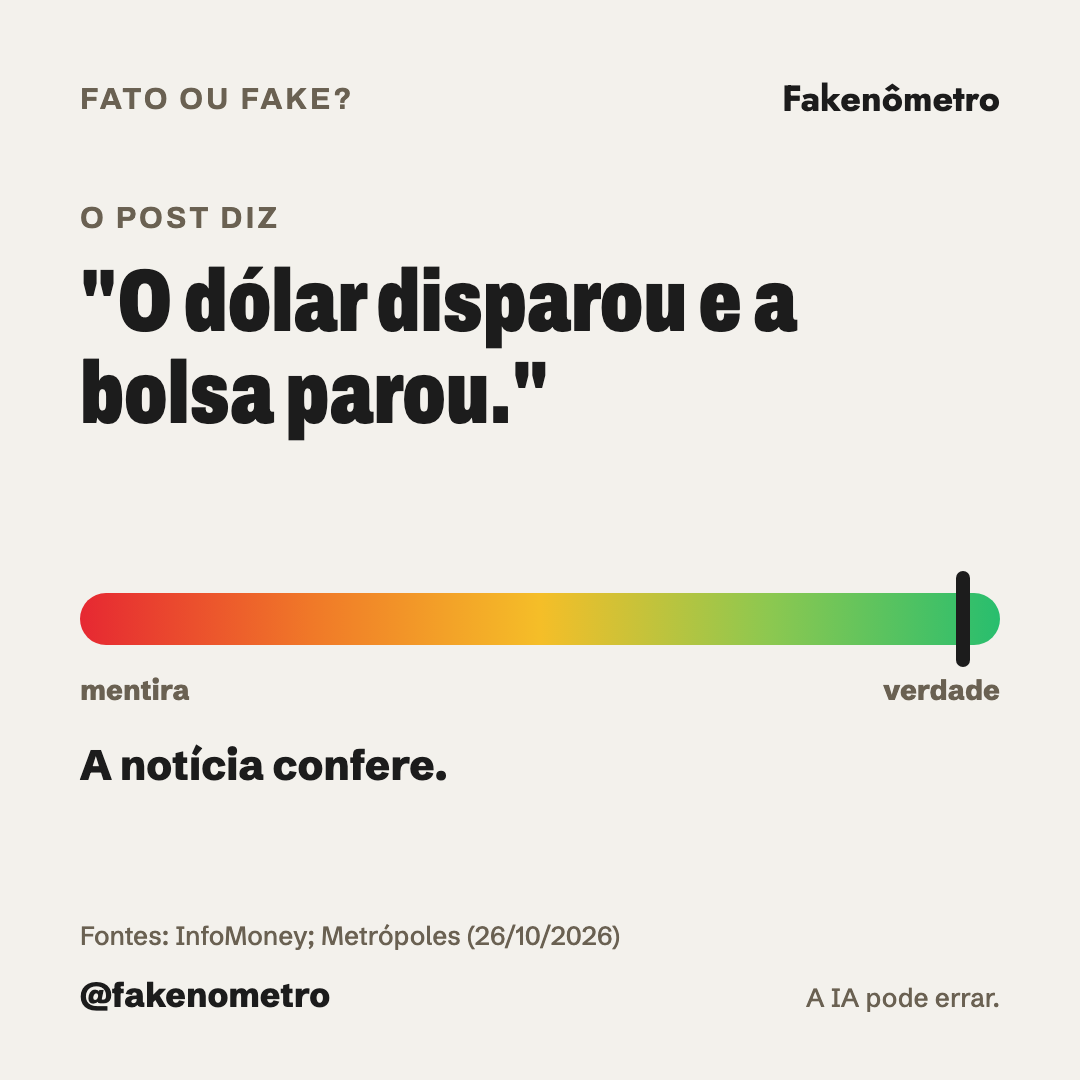
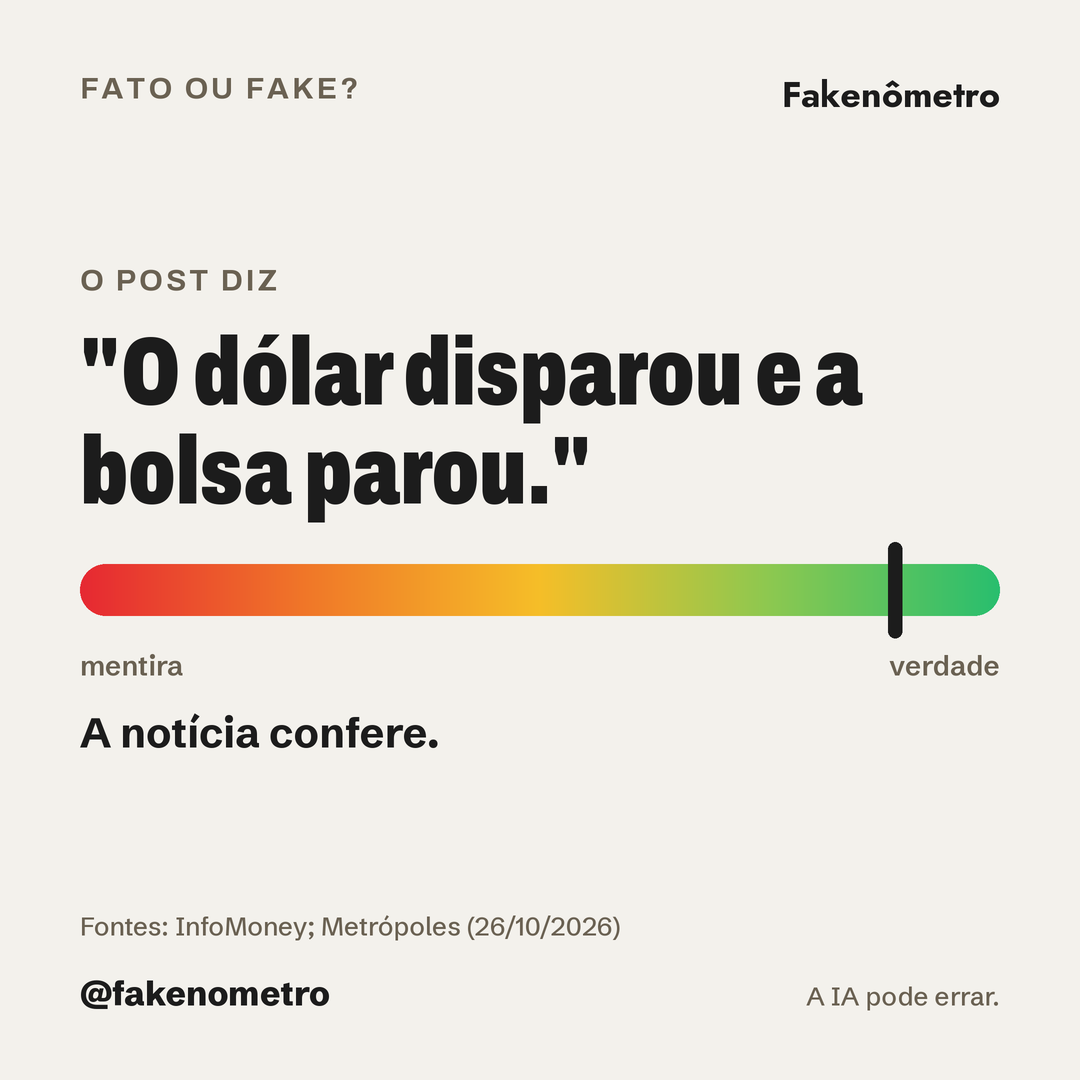
Termômetro: página e cards com a regra nova do ponteiro (Roberta, 15/11)

diff --git a/termometro/index.html b/termometro/index.html
@@ -17,28 +17,35 @@
 <a href="/">Início</a><a href="/manifesto">Manifesto</a><a href="/golpes/">Golpes</a><a href="/termometro/" class="ativo">Termômetro</a><a href="/numeros/">Números</a><a href="/contato/">Contato</a>
 </nav></div>
 <main>
+<style>.cx #pontos{grid-template-columns:repeat(4,minmax(0,1fr))}.cx #pontos .ponto{grid-column:auto}</style>
 <section class="capa"><div>
 <p class="etiqueta">O termômetro</p>
 <h1>Não é opinião. <span class="mt">É conta.</span></h1>
-<p class="sub">A gente separa o que o post afirma, ponto por ponto, e confere cada um. O ponteiro mostra quanto da história ficou de pé.</p>
+<p class="sub">A gente separa o que o post afirma e confere ponto por ponto. A frase do card diz o resultado. O tracinho mostra o quanto está provado.</p>
 <p class="mao">repetição não é prova</p>
 </div><div class="cx">
-<p class="etiqueta">Testa aí: toca nos pontos, o ponteiro mexe</p>
+<p class="etiqueta">Testa aí: escolhe e o tracinho mexe</p>
+<p class="mini"><b>O resultado</b></p>
+<div class="pontos" id="selo"></div>
+<p class="mini" id="rotulo-prova"><b>A prova do ponto principal</b></p>
+<div class="pontos" id="prova"></div>
+<p class="mini"><b>Os outros pontos</b> (toca para mudar)</p>
 <div class="pontos" id="pontos"></div>
-<div class="termo"><i id="ponteiro" style="left:80%"></i></div>
+<div class="termo"><b id="faixa" style="position:absolute;top:-4px;bottom:-4px;border:3px solid var(--texto);border-radius:6px;transition:all .45s"></b><i id="ponteiro" style="left:90%"></i></div>
 <div class="termo-pontas"><span>mentira</span><span>verdade</span></div>
 <p class="mini" id="leitura"></p>
-<p class="mao">sem prova também pesa: não é ponto a favor</p>
+<p class="mao">falta de prova não puxa para nenhum lado</p>
 </div></section>
 
 <section data-aba="Os cards">
-<p class="sub">Quatro casos e um card para repassar. É ele que chega no direct e no WhatsApp, pronto para mandar no grupo.</p>
+<p class="sub">O card é o que chega no direct e no WhatsApp, pronto para mandar no grupo. Cada resultado tem o seu lugar na barra.</p>
 <div class="quatro cards">
-<figure class="sobe" style="margin:0"><img src="/marca/cards/card_fake.png" alt="Card FAKE: Aviso de Corte da Enel, regularize imediatamente. A notícia não confere." loading="lazy" width="1080" height="1080"><h3>Fake</h3>Fundo preto e selo. A prova desmente, ou teria de existir e não existe.</figure>
-<figure class="sobe" style="margin:0"><img src="/marca/cards/card_claro.png" alt="Card claro com ponteiro: O dólar disparou e a bolsa parou. A notícia confere." loading="lazy" width="1080" height="1080"><h3>Confere</h3>Papel e ponteiro. O ponto central confere, e o ponteiro mostra o acerto da análise toda.</figure>
-<figure class="sobe" style="margin:0"><img src="/marca/cards/card_semprova.png" alt="Card claro sem ponteiro: Vem aí um apagão mundial. Estoque água e comida. Ainda não dá para saber. Não repasse como fato." loading="lazy" width="1080" height="1080"><h3>Ainda não dá para saber</h3>Sem ponteiro. Pode ser verdade, mas falta prova. Não repasse como fato.</figure>
+<figure class="sobe" style="margin:0"><img src="/marca/cards/card_fake.png" alt="Card FAKE: Aviso de Corte da Enel, regularize imediatamente. A notícia não confere." loading="lazy" width="1080" height="1080"><h3>Não confere</h3>Fundo preto, sem tracinho. A prova desmente, ou teria de existir e não existe.</figure>
+<figure class="sobe" style="margin:0"><img src="/marca/cards/card_claro.png" alt="Card claro com tracinho no verde: O dólar disparou e a bolsa parou. A notícia confere." loading="lazy" width="1080" height="1080"><h3>Confere</h3>Tracinho no verde. Quanto mais forte a prova, mais perto da ponta: documento oficial ou três veículos levam ao fim da barra; um veículo só fica mais para dentro.</figure>
+<figure class="sobe" style="margin:0"><img src="/marca/cards/card_semprova.png" alt="Card claro sem tracinho: Vem aí um apagão mundial. Estoque água e comida. Não repasse como fato." loading="lazy" width="1080" height="1080"><h3>Sem prova</h3>Sem tracinho. Pode ser verdade, mas falta prova. Não repasse como fato.</figure>
 <figure class="sobe" style="margin:0"><img src="/marca/cards/card_opiniao.png" alt="Card claro com a barra sem cor: Segunda-feira é o pior dia da semana. Não é notícia." loading="lazy" width="1080" height="1080"><h3>Não é notícia</h3>Barra sem cor. Opinião e sátira não têm grau de verdade. Este é um exemplo ilustrativo.</figure>
 </div>
+<p class="sub">"Confere, em parte" põe o tracinho no meio da barra. "A notícia engana", no laranja.</p>
 </section>
 
 <section data-aba="Quatro regras">
@@ -51,12 +58,24 @@
 </section>
 </main>
 <script>
-const P=[["Quem disse",0],["O número",0],["A data",0],["O lugar",0],["A conclusão",0]],C=["sim","nao","sem"],T={sim:"confere",nao:"não confere",sem:"sem prova"};
-P[4][1]=2;
-function d(){let s=0;document.getElementById("pontos").innerHTML=P.map(([n,e],i)=>{if(e==0)s++;return `<button class="ponto" data-i="${i}" data-e="${C[e]}">${n}<br><small>${T[C[e]]}</small></button>`}).join("");
-const v=Math.round(100*s/5);document.getElementById("ponteiro").style.left=Math.max(1,Math.min(99,v))+"%";
-document.getElementById("leitura").innerHTML=`<b>${s} de 5 pontos conferem.</b> O ponteiro fica em ${v}%.`}
-document.getElementById("pontos").addEventListener("click",e=>{const b=e.target.closest(".ponto");if(!b)return;P[b.dataset.i][1]=(P[b.dataset.i][1]+1)%3;d()});d();
+// Regra do ponteiro de 15/11 (Roberta): o resultado escolhe a faixa; no "confere", 60% força da prova + 40% os outros pontos;
+// ponto sem prova não conta; sem outros pontos, o resto fica no meio.
+const FX={confere:[75,97],parte:[42,70],engana:[20,38]},NS={confere:"Confere",parte:"Em parte",engana:"Engana"},
+FR={1:[40,"um veículo"],2:[70,"dois veículos"],3:[100,"documento oficial ou três veículos"]},
+P=[["Quem disse",0],["O número",0],["A data",0],["O lugar",2]],C=["sim","nao","sem"],T={sim:"confere",nao:"não confere",sem:"sem prova"};
+let S="confere",F=3;
+function d(){
+ document.getElementById("selo").innerHTML=Object.keys(FX).map(k=>`<button class="ponto" data-s="${k}" data-e="${k==S?"sim":"sem"}">${NS[k]}</button>`).join("");
+ const vp=S=="confere";document.getElementById("prova").style.display=document.getElementById("rotulo-prova").style.display=vp?"":"none";
+ document.getElementById("prova").innerHTML=[1,2,3].map(k=>`<button class="ponto" data-f="${k}" data-e="${k==F?"sim":"sem"}">${k==3?"oficial ou 3":k}<br><small>${k==3?"veículos":k==1?"veículo":"veículos"}</small></button>`).join("");
+ let c=0,t=0;document.getElementById("pontos").innerHTML=P.map(([n,e],i)=>{if(e<2){t++;if(e==0)c++}return `<button class="ponto" data-i="${i}" data-e="${C[e]}">${n}<br><small>${T[C[e]]}</small></button>`}).join("");
+ const resto=t?100*c/t:50,v=vp?0.6*FR[F][0]+0.4*resto:resto,[a,b]=FX[S],pos=Math.round(a+(b-a)*v/100);
+ const fx=document.getElementById("faixa");fx.style.left=a+"%";fx.style.width=(b-a)+"%";
+ document.getElementById("ponteiro").style.left=pos+"%";
+ document.getElementById("leitura").innerHTML=vp?`<b>Confere, com ${FR[F][1]}.</b> ${t?`Dos outros pontos, ${c} de ${t} conferem.`:"Sem outros pontos para conferir."} O tracinho fica em ${pos}.`
+  :`<b>${S=="parte"?"Confere, em parte":"A notícia engana"}.</b> O tracinho anda dentro da faixa conforme os outros pontos: ${t?`${c} de ${t} conferem`:"sem outros pontos, fica no meio"}.`}
+document.querySelector(".cx").addEventListener("click",e=>{const b=e.target.closest(".ponto");if(!b)return;
+ if(b.dataset.s)S=b.dataset.s;else if(b.dataset.f)F=+b.dataset.f;else P[b.dataset.i][1]=(P[b.dataset.i][1]+1)%3;d()});d();
 </script>
 <footer id="contato"><p>É inteligência artificial e pode errar. O Fakenômetro é um projeto brasileiro independente.</p>
 <p><a href="/debate/">Eleição 2026</a><a href="https://www.instagram.com/fakenometro/">Instagram</a><a href="/termos">Termos</a><a href="/privacidade">Privacidade</a><a href="/exclusao-de-dados">Exclusão de dados</a></p></footer></body></html>

diff --git a/index.html b/index.html
@@ -29,7 +29,7 @@ h1{font:850 clamp(30px,4.15vw,54px)/1.14 Archivo;font-stretch:72%;margin:0 0 12p
 <main><div><h1>A mentira tem pressa.<br>A gente tem <span class="fxc"><span class="fx" id="fx" aria-label="fonte"><i>f</i><i>o</i><i>n</i><i>t</i><i>e</i></span>.</span></h1>
 <p class="fr0">Boato e golpe vivem da urgência. Manda para a nossa IA antes de repassar ou pagar: ela procura as fontes e mostra o que achou. É grátis.</p>
 <a class="bt" href="https://wa.me/5511925338619">Testar no WhatsApp</a><p class="em">E-mail suspeito? Encaminhe para <b>checa@fakenometro.com.br</b></p></div>
-<div class="cx"><div class="fr">Em <span class="mt"><span id="dias">24</span> dias</span> de vida,<br><span id="vis">121.969</span> visualizações.</div><p class="pq2"><span id="seg">1.852</span> seguidores e <span id="cons">633</span> consultas ao robô até agora.</p><p class="mao">(grupo de WhatsApp não é bibliografia)</p><small>Consultas sem os testes da equipe desde 02/11/2026; antes disso, incluem.</small></div></main>
+<div class="cx"><div class="fr">Em <span class="mt"><span id="dias">29</span> dias</span> de vida,<br><span id="vis">167.296</span> visualizações.</div><p class="pq2"><span id="seg">4.039</span> seguidores e <span id="cons">887</span> consultas ao robô até agora.</p><p class="mao">(grupo de WhatsApp não é bibliografia)</p><small>Consultas sem os testes da equipe desde 02/11/2026; antes disso, incluem.</small></div></main>
 <footer class="pe"><span>É inteligência artificial e pode errar.</span><a href="/debate/">Eleição 2026</a><a href="https://www.instagram.com/fakenometro/">Instagram</a><a href="/termos">Termos</a><a href="/privacidade">Privacidade</a><a href="/exclusao-de-dados">Exclusão de dados</a></footer>
 <script>
 const P=["fonte","prova","documento","dado","registro","evidência"],F=document.getElementById("fx"),L="abcdefghijlmnoprstuvxz";let n=0;
